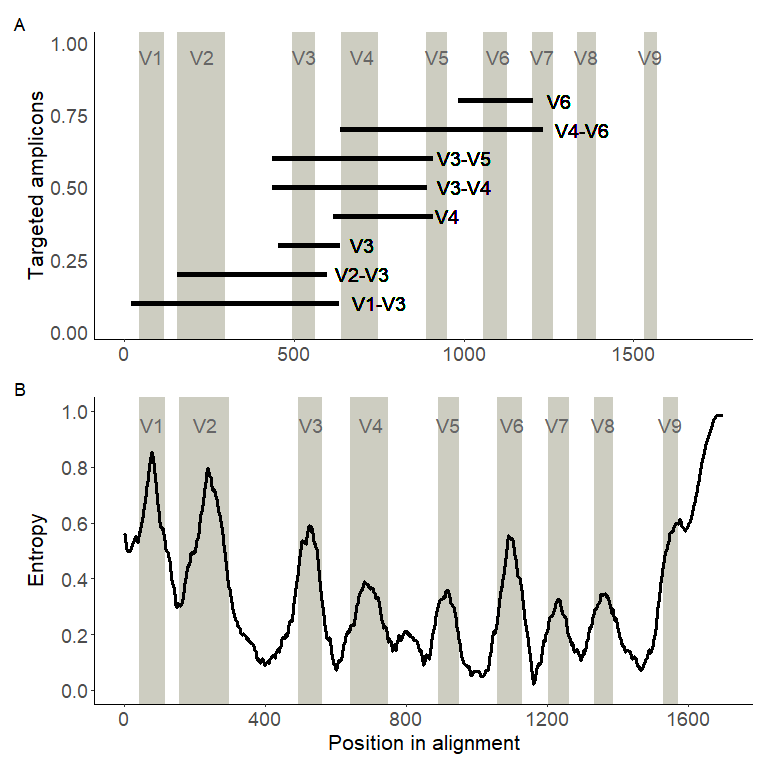
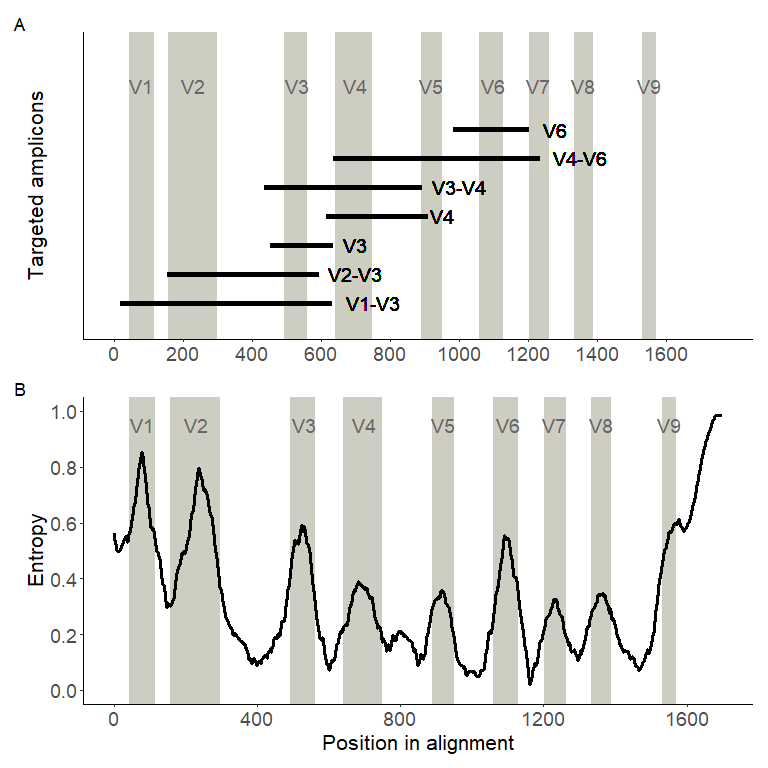
tweaks

diff --git a/taxonomy/readme.md b/taxonomy/readme.md
@@ -14,16 +14,15 @@ There are 78 sequences generated for each predicted amplicon.
 Abbreviations for the predicted amplicons were used in the filenames for
 convienience, and are listed in the table below.
 
-| region | primer                   | abbreviation |
-| ------ | ------------------------ | ------------ |
-| V1-V3  | A17F-515R                | k17          |
-| V4-V6  | 515F-1114R               | k515         |
-| V2-V3  | 16S\_BV2f-16S\_BV3r      | bbv          |
-| V3-V5  | MiCSQ\_343FL-MiCSQ\_806R | b646         |
-| V4     | F515-R806                | cap          |
-| V3-V4  | V3F-V4R                  | gras         |
-| V6     | v6\_1183F-v6\_1410R      | v6           |
-| V3     | v3\_579F-v3\_779R        | v3           |
+| region | primer              | abbreviation |
+| ------ | ------------------- | ------------ |
+| V1-V3  | A17F-515R           | k17          |
+| V4-V6  | 515F-1114R          | k515         |
+| V2-V3  | 16S\_BV2f-16S\_BV3r | bbv          |
+| V4     | F515-R806           | cap          |
+| V3-V4  | V3F-V4R             | gras         |
+| V6     | v6\_1183F-v6\_1410R | v6           |
+| V3     | v3\_579F-v3\_779R   | v3           |
 
 ``` r
 amp_plot / swa_plot + plot_annotation(tag_levels = 'A')
